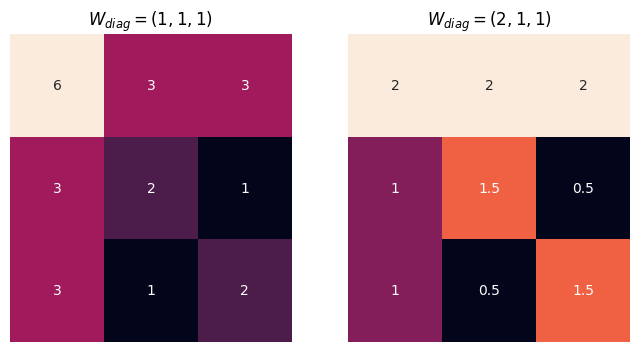
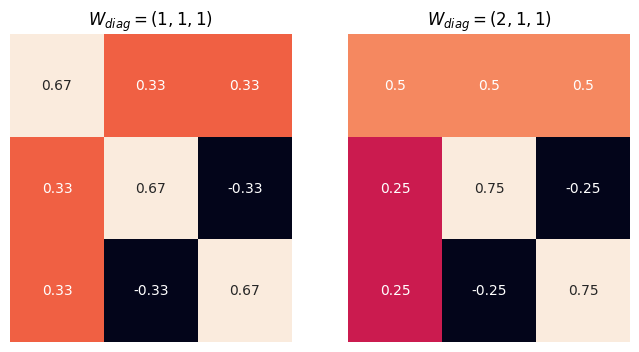
update

diff --git a/dl/time-series/timeseries-hierarchical.reconciliation.md b/dl/time-series/timeseries-hierarchical.reconciliation.md
@@ -254,25 +254,10 @@ In the following examples, we observe that the lower variance of the reconciled 
 
     |  $\mathbf S$  |  $\mathbf P$  |  $\mathbf S \mathbf P$ |
     |----|-----|-----|
-    | $\left[\begin{matrix}1 & 1\\1 & 0\\0 & 1\end{matrix}\right]$ | $\left[\begin{matrix}\frac{\frac{1}{W_{2}} + \frac{2}{W_{1}}}{W_{1}} & \frac{\frac{1}{W_{2}} + \frac{1}{W_{1}}}{W_{2}} & \frac{1}{W_{1} W_{3}}\\\frac{\frac{1}{W_{3}} + \frac{2}{W_{1}}}{W_{1}} & \frac{1}{W_{1} W_{2}} & \frac{\frac{1}{W_{3}} + \frac{1}{W_{1}}}{W_{3}}\end{matrix}\right]$ | $\left[\begin{matrix}\frac{\frac{1}{W_{3}} + \frac{1}{W_{2}} + \frac{4}{W_{1}}}{W_{1}} & \frac{\frac{1}{W_{2}} + \frac{2}{W_{1}}}{W_{2}} & \frac{\frac{1}{W_{3}} + \frac{2}{W_{1}}}{W_{3}}\\\frac{\frac{1}{W_{2}} + \frac{2}{W_{1}}}{W_{1}} & \frac{\frac{1}{W_{2}} + \frac{1}{W_{1}}}{W_{2}} & \frac{1}{W_{1} W_{3}}\\\frac{\frac{1}{W_{3}} + \frac{2}{W_{1}}}{W_{1}} & \frac{1}{W_{1} W_{2}} & \frac{\frac{1}{W_{3}} + \frac{1}{W_{1}}}{W_{3}}\end{matrix}\right]$ |
+    | $\left[\begin{matrix}1 & 1\\1 & 0\\0 & 1\end{matrix}\right]$ | $\left[\begin{matrix}\frac{- \frac{W_{2} W_{3}}{W_{1} + W_{2} + W_{3}} + \frac{W_{1} W_{2} + W_{2} W_{3}}{W_{1} + W_{2} + W_{3}}}{W_{1}} & \frac{W_{1} W_{2} + W_{2} W_{3}}{W_{2} \left(W_{1} + W_{2} + W_{3}\right)} & - \frac{W_{2}}{W_{1} + W_{2} + W_{3}}\\\frac{- \frac{W_{2} W_{3}}{W_{1} + W_{2} + W_{3}} + \frac{W_{1} W_{3} + W_{2} W_{3}}{W_{1} + W_{2} + W_{3}}}{W_{1}} & - \frac{W_{3}}{W_{1} + W_{2} + W_{3}} & \frac{W_{1} W_{3} + W_{2} W_{3}}{W_{3} \left(W_{1} + W_{2} + W_{3}\right)}\end{matrix}\right]$ | $\left[\begin{matrix}\frac{- \frac{2 W_{2} W_{3}}{W_{1} + W_{2} + W_{3}} + \frac{W_{1} W_{2} + W_{2} W_{3}}{W_{1} + W_{2} + W_{3}} + \frac{W_{1} W_{3} + W_{2} W_{3}}{W_{1} + W_{2} + W_{3}}}{W_{1}} & \frac{- \frac{W_{2} W_{3}}{W_{1} + W_{2} + W_{3}} + \frac{W_{1} W_{2} + W_{2} W_{3}}{W_{1} + W_{2} + W_{3}}}{W_{2}} & \frac{- \frac{W_{2} W_{3}}{W_{1} + W_{2} + W_{3}} + \frac{W_{1} W_{3} + W_{2} W_{3}}{W_{1} + W_{2} + W_{3}}}{W_{3}}\\\frac{- \frac{W_{2} W_{3}}{W_{1} + W_{2} + W_{3}} + \frac{W_{1} W_{2} + W_{2} W_{3}}{W_{1} + W_{2} + W_{3}}}{W_{1}} & \frac{W_{1} W_{2} + W_{2} W_{3}}{W_{2} \left(W_{1} + W_{2} + W_{3}\right)} & - \frac{W_{2}}{W_{1} + W_{2} + W_{3}}\\\frac{- \frac{W_{2} W_{3}}{W_{1} + W_{2} + W_{3}} + \frac{W_{1} W_{3} + W_{2} W_{3}}{W_{1} + W_{2} + W_{3}}}{W_{1}} & - \frac{W_{3}}{W_{1} + W_{2} + W_{3}} & \frac{W_{1} W_{3} + W_{2} W_{3}}{W_{3} \left(W_{1} + W_{2} + W_{3}\right)}\end{matrix}\right]$ |
 
+    We visualize the matrix $\mathbf S\mathbf P$. It is straightforward to verify that it always leads to coherent results.
     ![S * P](assets/timeseries-hierarchical.reconciliation/mint_example_2_level_2_bottom.png)
-
-=== "Two Levels: 3 Bottom Level Series"
-
-    |  $\mathbf S$  |  $\mathbf P$  |  $\mathbf S \mathbf P$ |
-    |----|-----|-----|
-    | $\left[\begin{matrix}1 & 1 & 1\\1 & 0 & 0\\0 & 1 & 0\\0 & 0 & 1\end{matrix}\right]$ | $\left[\begin{matrix}\frac{\frac{1}{W_{2}} + \frac{3}{W_{1}}}{W_{1}} & \frac{\frac{1}{W_{2}} + \frac{1}{W_{1}}}{W_{2}} & \frac{1}{W_{1} W_{3}} & \frac{1}{W_{1} W_{4}}\\\frac{\frac{1}{W_{3}} + \frac{3}{W_{1}}}{W_{1}} & \frac{1}{W_{1} W_{2}} & \frac{\frac{1}{W_{3}} + \frac{1}{W_{1}}}{W_{3}} & \frac{1}{W_{1} W_{4}}\\\frac{\frac{1}{W_{4}} + \frac{3}{W_{1}}}{W_{1}} & \frac{1}{W_{1} W_{2}} & \frac{1}{W_{1} W_{3}} & \frac{\frac{1}{W_{4}} + \frac{1}{W_{1}}}{W_{4}}\end{matrix}\right]$ | $\left[\begin{matrix}\frac{\frac{1}{W_{4}} + \frac{1}{W_{3}} + \frac{1}{W_{2}} + \frac{9}{W_{1}}}{W_{1}} & \frac{\frac{1}{W_{2}} + \frac{3}{W_{1}}}{W_{2}} & \frac{\frac{1}{W_{3}} + \frac{3}{W_{1}}}{W_{3}} & \frac{\frac{1}{W_{4}} + \frac{3}{W_{1}}}{W_{4}}\\\frac{\frac{1}{W_{2}} + \frac{3}{W_{1}}}{W_{1}} & \frac{\frac{1}{W_{2}} + \frac{1}{W_{1}}}{W_{2}} & \frac{1}{W_{1} W_{3}} & \frac{1}{W_{1} W_{4}}\\\frac{\frac{1}{W_{3}} + \frac{3}{W_{1}}}{W_{1}} & \frac{1}{W_{1} W_{2}} & \frac{\frac{1}{W_{3}} + \frac{1}{W_{1}}}{W_{3}} & \frac{1}{W_{1} W_{4}}\\\frac{\frac{1}{W_{4}} + \frac{3}{W_{1}}}{W_{1}} & \frac{1}{W_{1} W_{2}} & \frac{1}{W_{1} W_{3}} & \frac{\frac{1}{W_{4}} + \frac{1}{W_{1}}}{W_{4}}\end{matrix}\right]$ |
-
-    ![S * P](assets/timeseries-hierarchical.reconciliation/mint_example_2_level_3_bottom.png)
-
-=== "Two Levels: 4 Bottom Level Series"
-
-    |  $\mathbf S$  |  $\mathbf P$  |  $\mathbf S \mathbf P$ |
-    |----|-----|-----|
-    | $\left[\begin{matrix}1 & 1 & 1 & 1\\1 & 0 & 0 & 0\\0 & 1 & 0 & 0\\0 & 0 & 1 & 0\\0 & 0 & 0 & 1\end{matrix}\right]$ | $\left[\begin{matrix}\frac{\frac{1}{W_{2}} + \frac{4}{W_{1}}}{W_{1}} & \frac{\frac{1}{W_{2}} + \frac{1}{W_{1}}}{W_{2}} & \frac{1}{W_{1} W_{3}} & \frac{1}{W_{1} W_{4}} & \frac{1}{W_{1} W_{5}}\\\frac{\frac{1}{W_{3}} + \frac{4}{W_{1}}}{W_{1}} & \frac{1}{W_{1} W_{2}} & \frac{\frac{1}{W_{3}} + \frac{1}{W_{1}}}{W_{3}} & \frac{1}{W_{1} W_{4}} & \frac{1}{W_{1} W_{5}}\\\frac{\frac{1}{W_{4}} + \frac{4}{W_{1}}}{W_{1}} & \frac{1}{W_{1} W_{2}} & \frac{1}{W_{1} W_{3}} & \frac{\frac{1}{W_{4}} + \frac{1}{W_{1}}}{W_{4}} & \frac{1}{W_{1} W_{5}}\\\frac{\frac{1}{W_{5}} + \frac{4}{W_{1}}}{W_{1}} & \frac{1}{W_{1} W_{2}} & \frac{1}{W_{1} W_{3}} & \frac{1}{W_{1} W_{4}} & \frac{\frac{1}{W_{5}} + \frac{1}{W_{1}}}{W_{5}}\end{matrix}\right]$ | $\left[\begin{matrix}\frac{\frac{1}{W_{5}} + \frac{1}{W_{4}} + \frac{1}{W_{3}} + \frac{1}{W_{2}} + \frac{16}{W_{1}}}{W_{1}} & \frac{\frac{1}{W_{2}} + \frac{4}{W_{1}}}{W_{2}} & \frac{\frac{1}{W_{3}} + \frac{4}{W_{1}}}{W_{3}} & \frac{\frac{1}{W_{4}} + \frac{4}{W_{1}}}{W_{4}} & \frac{\frac{1}{W_{5}} + \frac{4}{W_{1}}}{W_{5}}\\\frac{\frac{1}{W_{2}} + \frac{4}{W_{1}}}{W_{1}} & \frac{\frac{1}{W_{2}} + \frac{1}{W_{1}}}{W_{2}} & \frac{1}{W_{1} W_{3}} & \frac{1}{W_{1} W_{4}} & \frac{1}{W_{1} W_{5}}\\\frac{\frac{1}{W_{3}} + \frac{4}{W_{1}}}{W_{1}} & \frac{1}{W_{1} W_{2}} & \frac{\frac{1}{W_{3}} + \frac{1}{W_{1}}}{W_{3}} & \frac{1}{W_{1} W_{4}} & \frac{1}{W_{1} W_{5}}\\\frac{\frac{1}{W_{4}} + \frac{4}{W_{1}}}{W_{1}} & \frac{1}{W_{1} W_{2}} & \frac{1}{W_{1} W_{3}} & \frac{\frac{1}{W_{4}} + \frac{1}{W_{1}}}{W_{4}} & \frac{1}{W_{1} W_{5}}\\\frac{\frac{1}{W_{5}} + \frac{4}{W_{1}}}{W_{1}} & \frac{1}{W_{1} W_{2}} & \frac{1}{W_{1} W_{3}} & \frac{1}{W_{1} W_{4}} & \frac{\frac{1}{W_{5}} + \frac{1}{W_{1}}}{W_{5}}\end{matrix}\right]$ |
-
-    ![S * P](assets/timeseries-hierarchical.reconciliation/mint_example_2_level_4_bottom.png)
 
 
 === "Code"
@@ -308,7 +293,7 @@ In the following examples, we observe that the lower variance of the reconciled 
 
         @property
         def p_left(self):
-            return (
+            return sp.Inverse(
                 sp.MatMul(sp.Transpose(self.s), sp.Inverse(self.w), self.s)
             )
 
